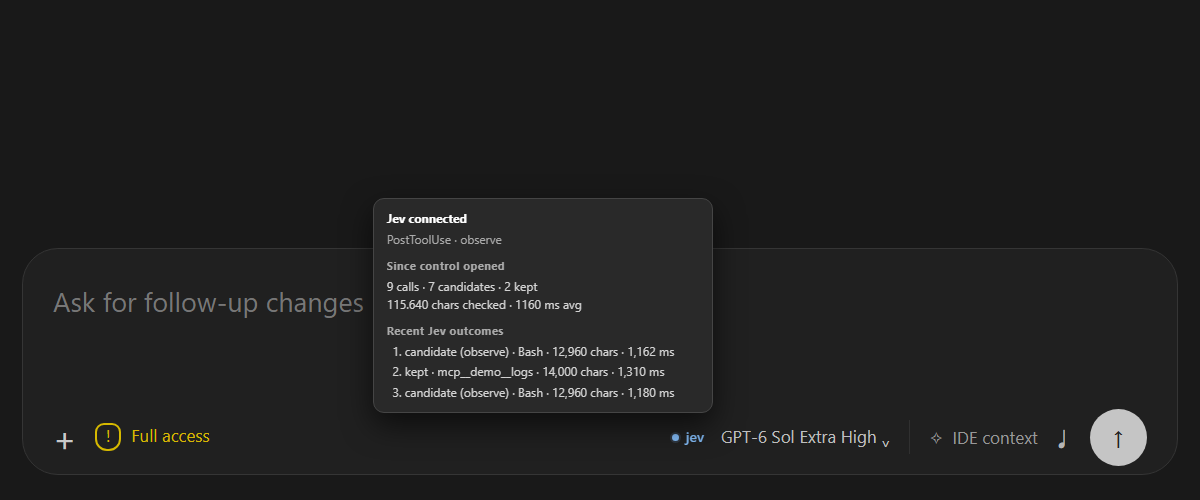
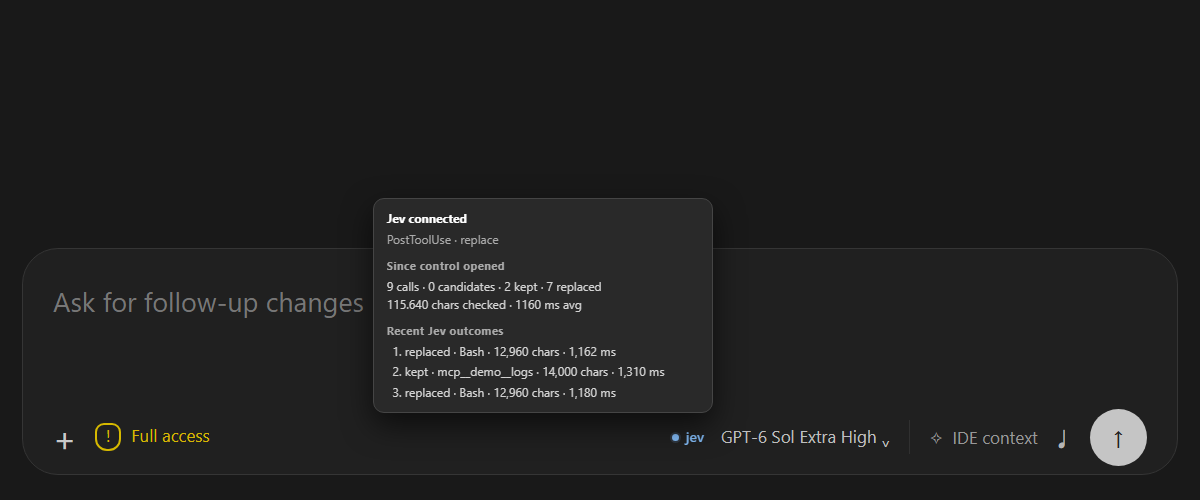
feat: default Jev pilot to replacement with observe setting

diff --git a/vscode-control/webview/jev-control.js b/vscode-control/webview/jev-control.js
@@ -8,7 +8,7 @@
     return api;
   };
 
-  let state = { enabled: false, health: null, busy: false, mode: "observe", recent: "No decision recorded yet", history: [], stats: {} };
+  let state = { enabled: false, health: null, busy: false, mode: "replace", recent: "No decision recorded yet", history: [], stats: {} };
   let root;
   let pending = 0;
   let menuOpen = false;
@@ -32,6 +32,9 @@
       #codex-jev-pilot-button { display: inline-flex; align-items: center; gap: 7px; padding: 5px 8px; border: 1px solid transparent; border-radius: 9px; background: transparent; color: #9a9a9a; font-family: inherit; font-size: 14px; font-weight: 600; line-height: 18px; cursor: pointer; transition: color 220ms ease-in-out; }
       #codex-jev-pilot[data-compact="true"] #codex-jev-pilot-button { gap: 0; padding: 6px; }
       #codex-jev-pilot[data-compact="true"] #codex-jev-pilot-label { display: none; }
+      #codex-jev-pilot-observe { display: none; margin-left: 2px; padding: 1px 3px; border: 1px solid #9a9a9a77; border-radius: 3px; color: #bdbdbd; font-size: 9px; font-weight: 700; line-height: 12px; letter-spacing: .04em; }
+      #codex-jev-pilot[data-observe="true"] #codex-jev-pilot-observe { display: inline-block; }
+      #codex-jev-pilot[data-compact="true"] #codex-jev-pilot-observe { margin-left: 2px; padding: 0 2px; }
       #codex-jev-pilot-button:hover, #codex-jev-pilot-button[aria-expanded="true"] { background: #ffffff12; border-color: #ffffff26; }
       #codex-jev-pilot-button:focus-visible, #codex-jev-pilot-option:focus-visible { outline: 2px solid #83bcf7; outline-offset: 2px; }
       #codex-jev-pilot-dot { width: 7px; height: 7px; border-radius: 50%; background: currentColor; box-shadow: 0 0 0 2px color-mix(in srgb, currentColor 15%, transparent); transition: box-shadow 220ms ease-in-out; }
@@ -62,7 +65,7 @@
     root = document.createElement("div");
     root.id = "codex-jev-pilot";
     root.innerHTML = `
-      <button id="codex-jev-pilot-button" type="button" aria-label="Jev hooks" aria-expanded="false" aria-controls="codex-jev-pilot-menu"><span id="codex-jev-pilot-dot"></span><span id="codex-jev-pilot-label">jev</span></button>
+      <button id="codex-jev-pilot-button" type="button" aria-label="Jev hooks" aria-expanded="false" aria-controls="codex-jev-pilot-menu"><span id="codex-jev-pilot-dot"></span><span id="codex-jev-pilot-label">jev</span><span id="codex-jev-pilot-observe">OBS</span></button>
       <div id="codex-jev-pilot-tip" role="tooltip"><strong></strong><span id="codex-jev-pilot-mode"></span><h3 id="codex-jev-pilot-session-heading">Since control opened</h3><div id="codex-jev-pilot-stats"></div><h3 id="codex-jev-pilot-history-heading">Recent Jev outcomes</h3><ol id="codex-jev-pilot-history"></ol><p id="codex-jev-pilot-empty">None yet</p></div>
       <div id="codex-jev-pilot-menu" role="group" aria-label="Jev hooks" data-open="false"><h2>Jev hooks</h2><button id="codex-jev-pilot-option" type="button" role="checkbox" aria-checked="false"><span id="codex-jev-pilot-check"></span><span><strong>PostToolUse · output filter</strong><small>Check repetitive tool output with Jev</small></span></button><p>Select none to turn Jev off.</p></div>`;
     document.body.appendChild(root);
@@ -93,6 +96,7 @@
     const visual = !state.enabled ? "off" : state.busy ? "busy" :
       state.health?.ok === true ? "healthy" : state.health?.ok === false ? "failed" : "off";
     button.style.color = colors[visual];
+    root.dataset.observe = String(state.enabled && state.mode === "observe");
     button.setAttribute("aria-expanded", String(menuOpen));
     root.dataset.menu = String(menuOpen);
     root.querySelector("#codex-jev-pilot-menu").dataset.open = String(menuOpen);

diff --git a/vscode-control/tests/browser_harness.html b/vscode-control/tests/browser_harness.html
@@ -13,7 +13,7 @@
     .results { position: absolute; top: 16px; left: 16px; font: 12px monospace; }
   </style>
   <script>
-    let enabled = false, health = { ok: true, model: "jev-1.13.0" }, busy = false;
+    let enabled = false, health = { ok: true, model: "jev-1.13.0" }, busy = false, mode = "replace";
     const stats = { calls: 7, candidates: 5, kept: 2, replaced: 0, checkedChars: 90640, elapsedMs: 8120, completed: 7 };
     const history = [
       "candidate (observe) · Bash · 12,960 chars · 1,162 ms",
@@ -26,7 +26,7 @@
       if (request.action === "setSelection") enabled = request.enabled;
       queueMicrotask(() => window.dispatchEvent(new MessageEvent("message", { data: {
         type: "jev-pilot-reply", id: request.id,
-        status: { enabled, health, busy, mode: "observe", recent: history[0], history, stats },
+        status: { enabled, health, busy, mode, recent: history[0], history, stats },
       } })));
     } });
   </script>
@@ -85,6 +85,19 @@
       await pause(50);
       check(option.getAttribute("aria-checked") === "true", "hook selected");
       check(button.style.color === "rgb(135, 205, 164)", "connected green");
+      const observeBadge = document.getElementById("codex-jev-pilot-observe");
+      check(getComputedStyle(observeBadge).display === "none", "replacement mode has no observe badge");
+      mode = "observe";
+      await until(() => root.dataset.observe === "true", "observe mode arrives from settings");
+      check(getComputedStyle(observeBadge).display !== "none" && observeBadge.textContent === "OBS", "observe badge visible");
+      check(button.style.color === "rgb(135, 205, 164)", "observe mode preserves health color");
+      composer.style.width = `${wideWidth - (gap - fullWidth + 4)}px`;
+      await until(() => root.dataset.compact === "true" && root.style.display === "block", "observe badge fits compact control");
+      check(getComputedStyle(observeBadge).display !== "none" && docked() >= 7 && docked() <= 10, "compact observe badge stays right docked");
+      composer.style.width = "";
+      await until(() => root.dataset.compact === "false", "observe control restores after resize");
+      mode = "replace";
+      await until(() => root.dataset.observe === "false", "replacement mode restored");
       const tooltip = document.getElementById("codex-jev-pilot-tip");
       check(tooltip.textContent.includes("7 calls") && /90[,.]640 chars checked/.test(tooltip.textContent), "session statistics tooltip");
       check(tooltip.querySelectorAll("li").length === 3 && tooltip.textContent.includes("mcp__demo__logs"), "three cross-tool outcomes");

diff --git a/vscode-control/core.js b/vscode-control/core.js
@@ -21,7 +21,7 @@ async function readConfig(directory) {
   try {
     const raw = JSON.parse(await fs.readFile(path.join(directory, "config.json"), "utf8"));
     const merged = {
-      enabled: false, mode: "observe", min_chars: 8192, max_chars: 2_000_000,
+      enabled: false, mode: "replace", min_chars: 8192, max_chars: 2_000_000,
       sample_chars: 12_000, timeout_seconds: 3, model: "jev-1.13.0",
       allow_mcp_replacement: false, ...raw,
     };
@@ -37,16 +37,15 @@ async function readConfig(directory) {
         typeof merged.allow_mcp_replacement !== "boolean") {
       throw new Error("Invalid pilot config");
     }
-    return { enabled: false, mode: "observe", ...raw };
+    return { enabled: false, mode: "replace", ...raw };
   } catch (error) {
-    if (error.code === "ENOENT") return { enabled: false, mode: "observe" };
+    if (error.code === "ENOENT") return { enabled: false, mode: "replace" };
     throw error;
   }
 }
 
-async function writeEnabled(directory, enabled) {
-  if (typeof enabled !== "boolean") throw new TypeError("enabled must be boolean");
-  const config = { ...await readConfig(directory), enabled };
+async function writeConfig(directory, updates) {
+  const config = { ...await readConfig(directory), ...updates };
   await fs.mkdir(directory, { recursive: true, mode: 0o700 });
   if ((await fs.lstat(directory)).isSymbolicLink()) throw new Error("Plugin data directory is a link");
   const target = path.join(directory, "config.json");
@@ -63,6 +62,16 @@ async function writeEnabled(directory, enabled) {
     await fs.rm(temporary, { force: true });
   }
   return config;
+}
+
+async function writeEnabled(directory, enabled) {
+  if (typeof enabled !== "boolean") throw new TypeError("enabled must be boolean");
+  return writeConfig(directory, { enabled });
+}
+
+async function writeMode(directory, mode) {
+  if (!["replace", "observe"].includes(mode)) throw new TypeError("invalid Jev mode");
+  return writeConfig(directory, { mode });
 }
 
 function isJevOutcome(event) {
@@ -247,5 +256,5 @@ async function checkHealth(credentialDirectory, execute = runCommand) {
 module.exports = {
   checkHealth, decisionSummary, defaultCredentialDirectory, defaultDataDirectory,
   isInformativeEvent, isJevOutcome, outcomeLine, parseHealthOutput, readConfig,
-  readEventsSince, readLatestEvent, readRecentOutcomes, writeEnabled,
+  readEventsSince, readLatestEvent, readRecentOutcomes, writeEnabled, writeMode,
 };

diff --git a/vscode-control/extension.js b/vscode-control/extension.js
@@ -4,7 +4,7 @@ const path = require("node:path");
 const vscode = require("vscode");
 const {
   checkHealth, decisionSummary, defaultCredentialDirectory, defaultDataDirectory,
-  isJevOutcome, outcomeLine, readConfig, readEventsSince, readRecentOutcomes, writeEnabled,
+  isJevOutcome, outcomeLine, readConfig, readEventsSince, readRecentOutcomes, writeEnabled, writeMode,
 } = require("./core");
 
 function emptyStats() {
@@ -18,7 +18,7 @@ function activate(context) {
   button.show();
   context.subscriptions.push(button);
 
-  const state = { enabled: false, mode: "observe", health: null, recent: null, history: [], stats: emptyStats(), busyUntil: 0, eventSize: -1, checking: false, polling: false, callingSeen: false };
+  const state = { enabled: false, mode: "replace", health: null, recent: null, history: [], stats: emptyStats(), busyUntil: 0, eventSize: -1, checking: false, polling: false, callingSeen: false };
   let pulseTimer;
   const settings = () => vscode.workspace.getConfiguration("jevPilot");
   const dataDirectory = () => {
@@ -45,7 +45,7 @@ function activate(context) {
       state.health?.ok === true ? "testing.iconPassed" :
       state.health?.ok === false ? "testing.iconFailed" : "statusBar.foreground";
     button.color = new vscode.ThemeColor(color);
-    button.text = "$(circle-filled) jev";
+    button.text = state.enabled && state.mode === "observe" ? "$(circle-filled) jev · OBS" : "$(circle-filled) jev";
     const status = !state.enabled ? "Off · no hooks selected" :
       state.health?.ok === true ? `Connected · ${state.health.model}` :
       state.health?.ok === false ? `Unavailable · ${state.health.reason}` : "Checking connection";
@@ -71,7 +71,11 @@ function activate(context) {
 
   async function sync() {
     try {
-      const config = await readConfig(dataDirectory());
+      const directory = dataDirectory();
+      const selectedMode = settings().get("mode") || "replace";
+      if (!["replace", "observe"].includes(selectedMode)) throw new Error("Invalid jevPilot.mode setting");
+      let config = await readConfig(directory);
+      if (config.mode !== selectedMode) config = await writeMode(directory, selectedMode);
       const wasEnabled = state.enabled;
       state.enabled = config.enabled;
       state.mode = config.mode;

diff --git a/vscode-control/tests/visual_harness.html b/vscode-control/tests/visual_harness.html
@@ -24,17 +24,17 @@
     document.documentElement.style.setProperty("--screenshot-offset", `${Math.max(0, outerHeight - innerHeight)}px`);
     const demo = new URLSearchParams(location.search).get("demo") || "tooltip";
     const history = [
-      "candidate (observe) · Bash · 12,960 chars · 1,162 ms",
+      "replaced · Bash · 12,960 chars · 1,162 ms",
       "kept · mcp__demo__logs · 14,000 chars · 1,310 ms",
-      "candidate (observe) · Bash · 12,960 chars · 1,180 ms",
+      "replaced · Bash · 12,960 chars · 1,180 ms",
     ];
     window.acquireVsCodeApi = () => ({ postMessage(request) {
       queueMicrotask(() => window.dispatchEvent(new MessageEvent("message", { data: {
         type: "jev-pilot-reply", id: request.id,
         status: {
           enabled: true, health: { ok: true, model: "jev-1.13.0" },
-          busy: demo === "pulse", mode: "observe", recent: history[0], history,
-          stats: { calls: 9, candidates: 7, kept: 2, replaced: 0, checkedChars: 115640, elapsedMs: 10440, completed: 9 },
+          busy: demo === "pulse", mode: "replace", recent: history[0], history,
+          stats: { calls: 9, candidates: 0, kept: 2, replaced: 7, checkedChars: 115640, elapsedMs: 10440, completed: 9 },
         },
       } })));
     } });

diff --git a/tests/test_pilot.py b/tests/test_pilot.py
@@ -42,14 +42,14 @@ def settings(**kwargs):
 
 
 class ConfigTests(unittest.TestCase):
-    def test_default_is_disabled_and_observe_only(self):
+    def test_default_is_disabled_with_replacement_mode(self):
         self.assertFalse(pilot.Config().enabled)
-        self.assertEqual(pilot.Config().mode, "observe")
+        self.assertEqual(pilot.Config().mode, "replace")
 
     def test_config_example_is_valid_and_disabled(self):
         config = pilot.Config.from_file(ROOT / "config.example.json")
         self.assertFalse(config.enabled)
-        self.assertEqual(config.mode, "observe")
+        self.assertEqual(config.mode, "replace")
 
     def test_invalid_configs_fail_closed(self):
         for invalid in ({"enabled": "true"}, {"mode": "destroy"}, {"min_chars": 10}, {"unknown": 1}, {"timeout_seconds": 10}):

diff --git a/vscode-control/patch_codex_webview.py b/vscode-control/patch_codex_webview.py
@@ -27,7 +27,7 @@ BRIDGE = (
     'v=>e.postMessage({type:"jev-pilot-reply",id:u.id,status:v}),'
     '()=>e.postMessage({type:"jev-pilot-reply",id:u.id,status:'
     '{enabled:false,health:{ok:false,reason:"BRIDGE_UNAVAILABLE"},'
-    'busy:false,mode:"observe",recent:"Control unavailable"}}));return}'
+    'busy:false,mode:"replace",recent:"Control unavailable"}}));return}'
     'if(s.markMessageReceived(),u.type==="chunked-message-ack")'
 )
 SCRIPT = '<script src="./assets/jev-control.js"></script>\n'

diff --git a/hooks/pilot.py b/hooks/pilot.py
@@ -38,7 +38,7 @@ SAFE_KEY = re.compile(r"^[A-Za-z0-9._-]{1,128}$")
 @dataclass(frozen=True)
 class Config:
     enabled: bool = False
-    mode: str = "observe"
+    mode: str = "replace"
     min_chars: int = 8192
     max_chars: int = 2_000_000
     sample_chars: int = 12_000

diff --git a/README.md b/README.md
@@ -1,10 +1,10 @@
 # Jev Output Pilot
 
 An installed, opt-in Codex plugin with one synchronous `PostToolUse` hook. Its
-default config is `enabled: false`, `mode: "observe"`. The hook considers only
-large, repetitive Bash output and text-only MCP output. Observe mode records a
+default config is `enabled: false`, `mode: "replace"`. Selecting the hook enables
+replacement for large, repetitive Bash output. Observe mode records a
 metadata-only decision without changing the result Codex sees. Replacement
-requires a separate `mode: "replace"` config change; it saves the exact Bash
+saves the exact Bash
 output privately before returning an excerpt and recovery path. MCP replacement
 has its own additional opt-in.
 
@@ -76,7 +76,11 @@ repository. A personal marketplace installation can use
 Set `jevPilot.dataDirectory` in VS Code to that installed plugin data directory
 (using its `\\wsl.localhost\<distro>\...` path on Windows), or set the
 `CODEX_JEV_DATA_DIRECTORY` environment variable. The public extension package
-does not contain a workstation-specific default path.
+does not contain a workstation-specific default path. To keep all output while
+recording decisions, change the VS Code **Jev Control Pilot: Mode** setting
+(`jevPilot.mode`) to `observe`. Its default is `replace`; the hook selection
+button changes only whether Jev is on. While observe mode is selected, the
+composer button and status bar show `OBS`, and the hover panel names the mode.
 
 Codex has no supported third-party composer control slot. The composer button
 is a **version-pinned local patch** for OpenAI Codex VS Code extension
@@ -90,6 +94,10 @@ window where the button should appear. The status-bar control remains a fallback
 
 The hook timeout is five seconds; the Jev request has a three-second API
 deadline. Hosted tools such as web search do not pass through this hook.
+For nested JavaScript tool calls, Codex still returns the original result to
+the running script. Replacement reduces model-visible tool text when that text
+would otherwise be sent directly; scripts that already summarize their results
+do not gain token savings from this hook.
 
 ## Verification
 

diff --git a/vscode-control/README.md b/vscode-control/README.md
@@ -3,6 +3,9 @@
 The installed companion extension shows a `jev` status-bar indicator and
 handles the composer button's private message bridge. The composer button opens
 the single `PostToolUse` hook checkbox. An empty selection turns the hook off.
+When selected, replacement mode is the default. Set **Jev Control Pilot: Mode**
+(`jevPilot.mode`) to `observe` in VS Code settings to retain full output while
+recording decisions. `OBS` appears on the button and status bar in that mode.
 Hovering shows the selected mode, Jev call totals since the control opened,
 and the three most recent metadata-only outcomes across tools. Routine small
 tool outputs do not displace those outcomes in the tooltip.
